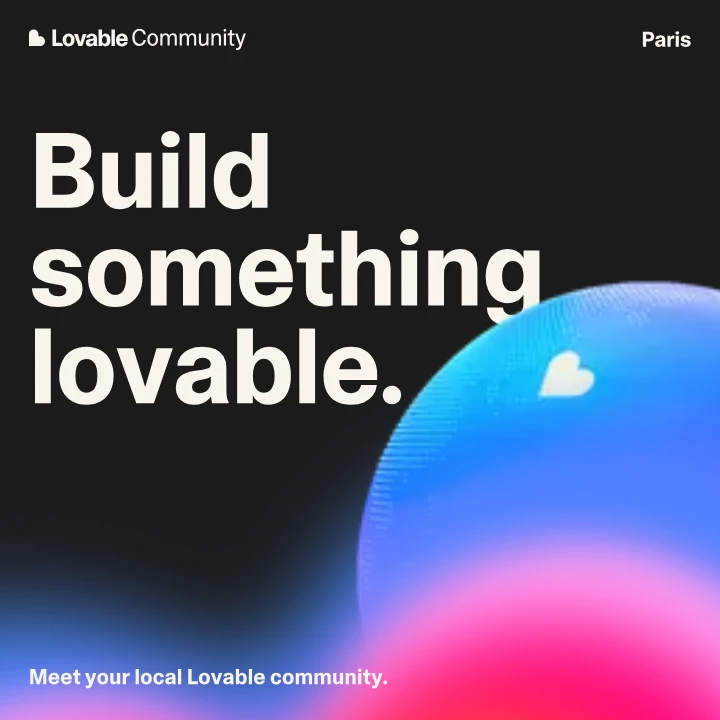
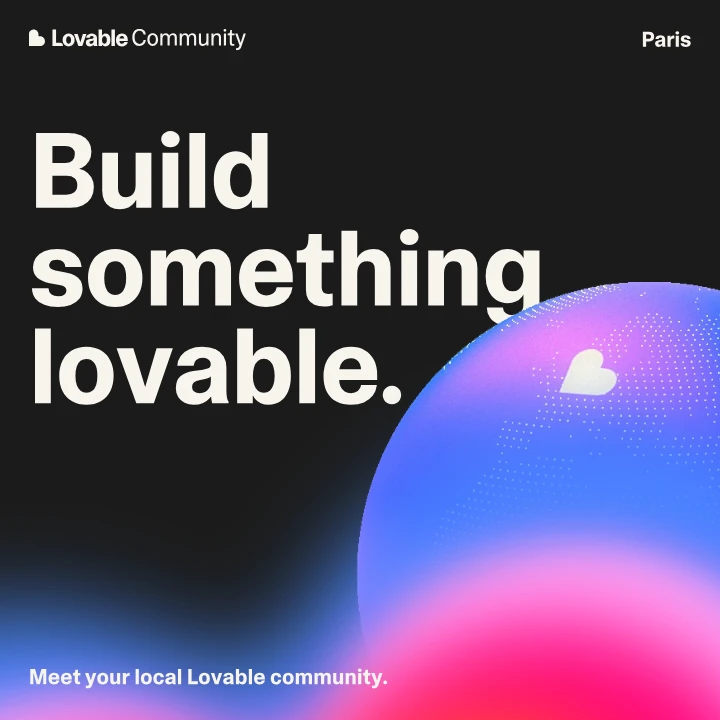
Open Community starters without rendering the 3D scene

Changed region(s): [[0.4889, 0.3667, 1.0, 0.7028]]

diff --git a/studio/src/assets-tool/communityLayers.ts b/studio/src/assets-tool/communityLayers.ts
@@ -3,6 +3,7 @@ import type {AmbassadorSettings} from './ambassadorSettings';
 import {emptyPortrait} from '../../../src/ambassadors/portrait.js';
 import {communityLayout,renderAmbassador} from '../../../src/ambassadors/render.js';
 import {squareEventLayers} from '../../../shared/communityStarter.mjs';
+import {communityGradientPreview,preparedCommunityGlobe} from '../../../shared/communityPreparedArtwork.mjs';
 
 export type CommunityLayer={kind:'text'|'logo'|'globe'|'glow'|'qr'|'portrait';key:string;x:number;y:number;w:number;h:number;rotation?:number;src?:string;text?:string;size?:number;leading?:number;weight?:string;tracking?:number;align?:'left'|'center'|'right'};
 
@@ -29,16 +30,19 @@ function spotlightLayers(settings:AmbassadorSettings):CommunityLayer[]{
 export function communityLayerBlock(layer:CommunityLayer,settings:AmbassadorSettings,artwork:Record<string,string>):HtmlBlock{
  const id=`community-${layer.key}-${crypto.randomUUID()}`,editor={position:'absolute' as const,x:layer.x,y:layer.y,widthPx:layer.w,height:Math.max(12,layer.h),rotation:layer.rotation};
  if(layer.kind==='text')return {id,kind:'text',value:{runs:[{text:layer.text??''}],style:'Text',size:layer.size!,align:layer.align??'left',color:'#f7f4ed'},editor:{...editor,appearance:{fontFamily:'Camera Plain',fontSize:layer.size!,fontWeight:layer.weight==='bold'?700:layer.weight==='medium'?500:400,letterSpacing:(layer.tracking??0)*layer.size!,lineHeight:layer.leading!/layer.size!*100}}};
- const src=layer.kind==='logo'?'/ambassadors/assets/lovable-community.svg':layer.kind==='glow'?'/ambassadors/assets/heart-overlay.png':layer.kind==='portrait'?(layer.src||emptyPortrait):artwork[layer.kind];
+ const src=layer.kind==='logo'?'/ambassadors/assets/lovable-community.svg':layer.kind==='glow'?communityGradientPreview:layer.kind==='portrait'?(layer.src||emptyPortrait):artwork[layer.kind];
  const element=layer.kind==='globe'?(settings.format==='spotlight'?'spotlight-globe' as const:'globe' as const):layer.kind==='qr'?'qr' as const:undefined;
  return {id,kind:'image',...(element?{ambassador:structuredClone(settings),ambassadorElement:element}:{}),value:{src,alt:layer.kind==='logo'?'Lovable Community':layer.kind==='globe'?'Globe':layer.kind==='glow'?'Gradient':layer.kind==='qr'?'Community QR':layer.key==='photo'?'Portrait':`Speaker ${Number(layer.key.slice(6))+1} portrait`,caption:'',alignment:'center',width:100},editor:{...editor,appearance:{imageFit:layer.kind==='portrait'?'cover':'contain',...(layer.kind==='portrait'?{radius:layer.w/2,background:'#1b1b1b'}:{})}}};
 }
 export async function createCommunityLayers(settings:AmbassadorSettings,squareEvent=false){
- await document.fonts.ready;
+ if(settings.format==='spotlight')await document.fonts.ready;
  const source:CommunityLayer[]=settings.format==='spotlight'?spotlightLayers(settings):await communityLayout(settings);
  const layers:CommunityLayer[]=squareEvent?squareEventLayers(source):source;
  const artwork:Record<string,string>={};
- for(const kind of ['globe','qr'] as const)if(layers.some(layer=>layer.kind===kind))artwork[kind]=(await renderAmbassador(settings,{element:kind==='globe'&&settings.format==='spotlight'?'spotlight-globe':kind,pixels:1600})).src;
+ await Promise.all((['globe','qr'] as const).filter(kind=>layers.some(layer=>layer.kind===kind)).map(async kind=>{
+  const prepared=kind==='globe'?preparedCommunityGlobe(settings):null;
+  artwork[kind]=prepared??(await renderAmbassador(settings,{element:kind==='globe'&&settings.format==='spotlight'?'spotlight-globe':kind,pixels:1600})).src;
+ }));
  const blocks=layers.map(layer=>communityLayerBlock(layer,settings,artwork));
  return {blocks,bindings:Object.fromEntries(layers.map((layer,index)=>[layer.key,blocks[index].id]))};
 }

diff --git a/src/ambassadors/render.js b/src/ambassadors/render.js
@@ -6,8 +6,11 @@ import {safeUrl} from './source/renderer.mjs';
 export {DEFAULTS};
 const toData=blob=>new Promise((resolve,reject)=>{const reader=new FileReader();reader.onload=()=>resolve(reader.result);reader.onerror=reject;reader.readAsDataURL(blob);});
 const read=async path=>{const response=await fetch(path);if(!response.ok)throw Error('The community artwork could not load. Please try again.');return response;};
-let renderer,cityIndex;
-function loadRenderer(){return renderer??=Promise.all([read('/fonts/CameraPlain-Bold.ttf').then(r=>r.arrayBuffer()).then(parse),read('/ambassadors/assets/CameraPlain-Regular.ttf').then(r=>r.arrayBuffer()).then(parse),read('/ambassadors/assets/heart-overlay.png').then(r=>r.blob()).then(toData)]).then(([bold,regular,heartOverlay])=>createRenderer({bold,regular,heartOverlay,qrcode})).catch(error=>{renderer=undefined;throw error;});}
+let renderer,layoutRenderer,fonts,cityIndex;
+function loadFonts(){return fonts??=Promise.all([read('/fonts/CameraPlain-Bold.ttf').then(r=>r.arrayBuffer()).then(parse),read('/ambassadors/assets/CameraPlain-Regular.ttf').then(r=>r.arrayBuffer()).then(parse)]).catch(error=>{fonts=undefined;throw error;});}
+function loadRenderer(){return renderer??=Promise.all([loadFonts(),read('/ambassadors/assets/heart-overlay.png').then(r=>r.blob()).then(toData)]).then(([[bold,regular],heartOverlay])=>createRenderer({bold,regular,heartOverlay,qrcode})).catch(error=>{renderer=undefined;throw error;});}
+// Native geometry needs font metrics, not the 1.7 MB export background.
+function loadLayoutRenderer(){return layoutRenderer??=loadFonts().then(([bold,regular])=>createRenderer({bold,regular,heartOverlay:'',qrcode})).catch(error=>{layoutRenderer=undefined;throw error;});}
 // The scene is the original kit renderer. Only its capture bridge is new.
 class Scene {
  constructor(spotlight){this.spotlight=spotlight;this.listeners=new Set();this.revision=0;this.lastCity='';this.queue=Promise.resolve();}
@@ -70,4 +73,4 @@ export function renderAmbassador(settings,{pixels=1600,element=undefined,signal=
  const result=jobs.catch(()=>{}).then(run);jobs=result;return result;
 }
 
-export async function communityLayout(settings){const engine=await loadRenderer();return engine.layout({...structuredClone(DEFAULTS),...settings,badgeMode:'single'});}
+export async function communityLayout(settings){const engine=await loadLayoutRenderer();return engine.layout({...structuredClone(DEFAULTS),...settings,badgeMode:'single'});}

diff --git a/studio/src/assets-tool/media.ts b/studio/src/assets-tool/media.ts
@@ -1,6 +1,7 @@
 import { toPng } from 'html-to-image';
 import { assetSchema, assetDimensions, type AssetDocument, type AssetReference } from './model';
 import {fontFacesForAsset} from '../../../shared/assetTypography.mjs';
+import {communityGradientMaster,communityGradientPreview} from '../../../shared/communityPreparedArtwork.mjs';
 
 export async function readReference(file: File): Promise<AssetReference> {
   if (!['image/png', 'image/jpeg', 'image/webp'].includes(file.type)) throw new Error('Choose a PNG, JPG or WebP image.');
@@ -69,6 +70,7 @@ export async function exportPng(element:HTMLElement, asset:AssetDocument) {
     if(community.length){
       // Gallery thumbnails make opening instant; downloads regenerate the source artwork at export size.
       clone=element.cloneNode(true) as HTMLElement;clone.removeAttribute('id');element.parentElement!.append(clone);board=clone;
+      for(const image of clone.querySelectorAll<HTMLImageElement>('img'))if(image.getAttribute('src')===communityGradientPreview)image.src=communityGradientMaster;
       const {renderAmbassador}=await import('./ambassadorAsset');
       for(const block of community){if(block.kind!=='image'||!block.ambassador)continue;const image=await renderAmbassador(block.ambassador,{pixels:Math.min(4000,Math.max(width,height,1600)),element:block.ambassadorElement});for(const target of clone.querySelectorAll<HTMLImageElement>('img'))if(target.getAttribute('src')===block.value.src)target.src=image.src;}
     }

diff --git a/studio/src/assets-tool/storage.ts b/studio/src/assets-tool/storage.ts
@@ -34,3 +34,26 @@ export async function listAssets(owner: string): Promise<AssetDocument[]> {
     request.onerror = () => reject(new Error('Could not open your saved assets.'));
   });
 }
+
+/** Open only this collection; unrelated saved images should not delay the canvas. */
+export async function loadAssetCollection(owner:string,id:string):Promise<AssetDocument[]>{
+  const db=await openDatabase();
+  const get=(ids:string[])=>new Promise<AssetDocument[]>((resolve,reject)=>{
+    const store=db.transaction('assets').objectStore('assets'),found=new Map<string,AssetDocument>();
+    let remaining=ids.length;
+    if(!remaining){resolve([]);return;}
+    for(const id of ids){
+      const request=store.get(`${owner}:${id}`);
+      request.onsuccess=()=>{
+        const row=request.result as StoredAsset|undefined;
+        if(row?.owner===owner){const parsed=assetSchema.safeParse(row.document);if(parsed.success)found.set(id,parsed.data);}
+        if(!--remaining)resolve(ids.flatMap(id=>found.has(id)?[found.get(id)!]:[]));
+      };
+      request.onerror=()=>reject(new Error('Could not open your saved asset.'));
+    }
+  });
+  const [current]=await get([id]);
+  if(!current)return [];
+  const siblings=[...new Set((current.series??[]).map(page=>page.id))].filter(pageId=>pageId!==id);
+  return [current,...await get(siblings)];
+}

diff --git a/studio/src/assets-tool/AssetPage.tsx b/studio/src/assets-tool/AssetPage.tsx
@@ -39,7 +39,7 @@ import '../studio/workspace-widgets.css';
 import { Artwork } from './Artwork';
 import { assetSchema, assetDimensions, compositionSchema, formats, resizeAsset, referenceDocument, type AssetDocument, type AssetFormat, type Composition } from './model';
 import { exportPng, renderPng, exportSource, readReference, visionReference } from './media';
-import { listAssets, saveAsset, saveAssets } from './storage';
+import { listAssets, loadAssetCollection, saveAsset, saveAssets } from './storage';
 import './assets.css';
 import {AssetScreenMenu} from './AssetScreenMenu';
 
@@ -137,7 +137,8 @@ function AssetPageContent() {
   }, []);
   useEffect(() => {
     let cancelled = false;
-    void listAssets(owner).then(async items => {
+    const opening=studioWorkspace==='ambassadors'?(id?loadAssetCollection(owner,id):Promise.resolve([])):listAssets(owner);
+    void opening.then(async items => {
       if (cancelled) return; setRecent(items);
       if (id && !current.current && !readingFile.current) {
         const found = items.find(item => item.id === id);

diff --git a/AGENTS.md b/AGENTS.md
@@ -30,6 +30,7 @@
 
 - Ambassadors uses the original Community kit assets and six template geometries from `lucchaissac/lovable-ambassador-kit`; keep the shared hub and studio UI. The globe selects this workspace. Preserve old Partner hashes; Community routes start with `#ambassadors/`. Keep each workspace’s saved designs and last-opened asset separate.
 - Community Gallery and Guidelines use prepared, optimized WebP previews, including the supplied Montreal community photo. Never initialize the WebGL renderer merely to display a gallery. Preload gallery image previews; keep video playback limited to visible content. Only personalized artwork and high-resolution exports invoke the original globe renderer.
+- Community starter creation also reuses the prepared 1080 px Paris globe and optimized gradient; never start WebGL just to open the default Event. Preserve the approved editable layer geometry. City changes and high-resolution exports keep the original renderer; exports use the original gradient master. Geometry extraction must not load the export background. Opening a saved Community design reads only that design and its series, not every saved asset in IndexedDB.
 - Community clear space follows the Partners presentation: paired heart and complete-logo specimens, thin solid guides and an x on each side. For Community, x is the actual heart height (35.6303 units in the supplied vector). Measure the complete lockup from its visible bounds, including the far edge and bottom of the y; do not use the whole logo height as x. Keep diagram labels legible at 12 px on mobile.
 - Community guidelines include Identity, Construction and Clear space diagrams, plus the same miniature studio invitation used by Partners. Color is deliberately omitted for now at Luc’s request. Community artwork retains its authored colors in light appearance.
 
